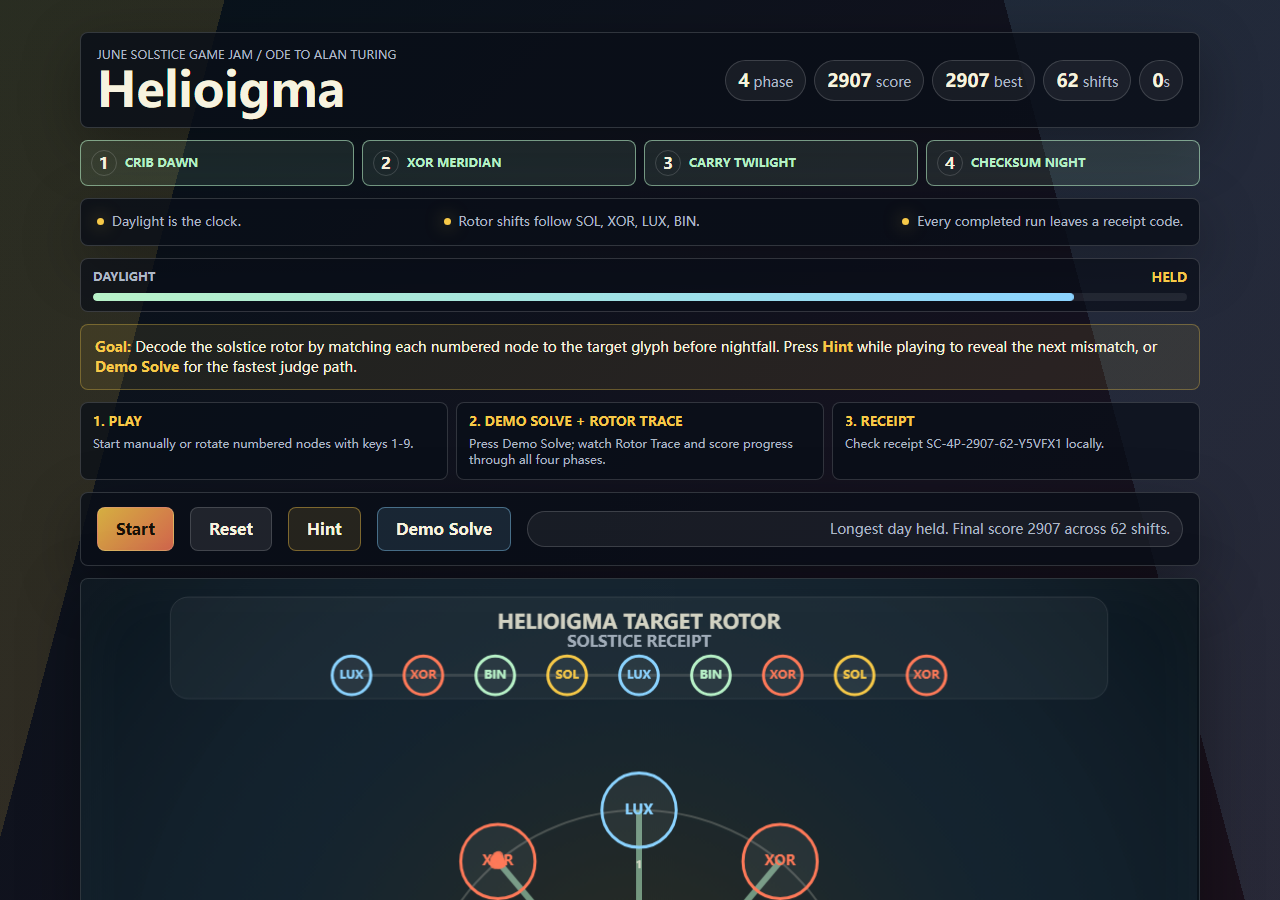
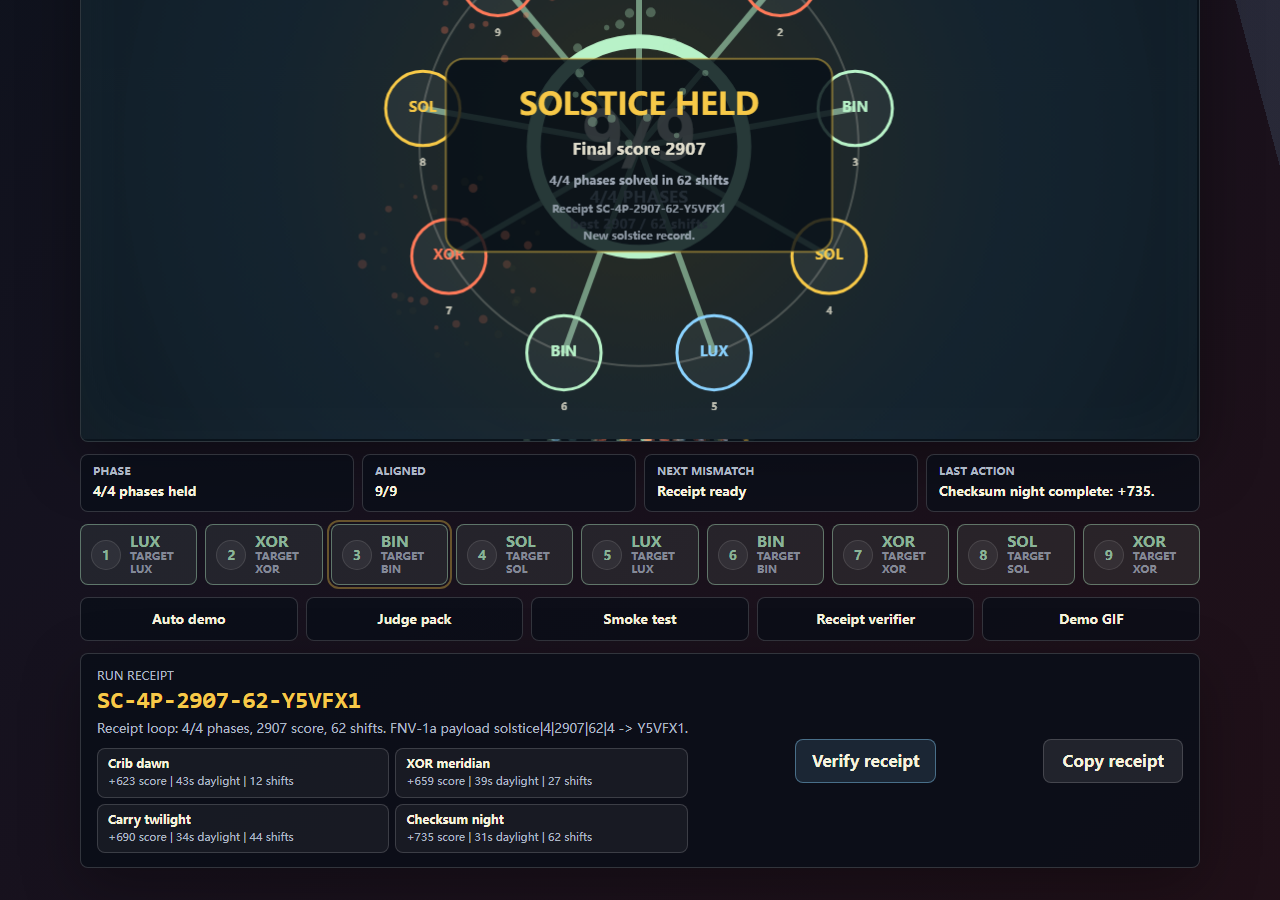
Refresh Helioigma completion proof asset

diff --git a/dev-submit-console.html b/dev-submit-console.html
@@ -193,7 +193,7 @@ I would love real feedback on the feel of the puzzle loop, mobile controls, and 
 3. GIF fallback: https://ooyxloo.github.io/solstice-cipher/solstice-cipher-demo.gif
 4. Desktop screenshot: https://ooyxloo.github.io/solstice-cipher/desktop-check-v5.png
 5. Mobile screenshot: https://ooyxloo.github.io/solstice-cipher/mobile-check-v6.png
-6. Completion screenshot: https://ooyxloo.github.io/solstice-cipher/desktop-complete-v4.png</textarea>
+6. Completion screenshot with receipt ledger: https://ooyxloo.github.io/solstice-cipher/desktop-complete-v4.png</textarea>
       </div>
       <div class="panel warn">
         <div class="copy-row"><h2>Pre-Submit Checks</h2><button type="button" data-copy="checks">Copy</button></div>

diff --git a/README.md b/README.md
@@ -62,7 +62,7 @@ The playable first screen now includes the plain rule: decode the solstice rotor
 - `solstice-cipher-demo.mp4`: optional legacy MP4 asset retained for platforms that specifically ask for MP4.
 - `desktop-check-v5.png`: current desktop gameplay screenshot.
 - `mobile-check-v6.png`: current mobile gameplay screenshot.
-- `desktop-complete-v4.png`: current final-score screenshot with solved phases, best score, and shift count.
+- `desktop-complete-v4.png`: current completion screenshot with final score, run receipt, verifier link, and phase scoring ledger.
 - `solstice-cipher-dev-package.zip`: local review/transfer package containing source files and final media assets.
 
 ## License

diff --git a/dev-article-final.md b/dev-article-final.md
@@ -75,7 +75,7 @@ Public media links:
 3. GIF fallback: https://ooyxloo.github.io/solstice-cipher/solstice-cipher-demo.gif
 4. Desktop screenshot: https://ooyxloo.github.io/solstice-cipher/desktop-check-v5.png
 5. Mobile screenshot: https://ooyxloo.github.io/solstice-cipher/mobile-check-v6.png
-6. Completion screenshot: https://ooyxloo.github.io/solstice-cipher/desktop-complete-v4.png
+6. Completion screenshot with receipt ledger: https://ooyxloo.github.io/solstice-cipher/desktop-complete-v4.png
 
 ## Code
 

diff --git a/verification-report.md b/verification-report.md
@@ -26,7 +26,7 @@ This report records the public-package checks that can be repeated after `OOYXLO
 - `solstice-cipher-demo.mp4`: optional legacy MP4 asset
 - `desktop-check-v5.png`: desktop gameplay screenshot
 - `mobile-check-v6.png`: mobile gameplay screenshot
-- `desktop-complete-v4.png`: completion screenshot
+- `desktop-complete-v4.png`: completion screenshot with final receipt and phase scoring ledger
 
 ## Local Verification Commands
 